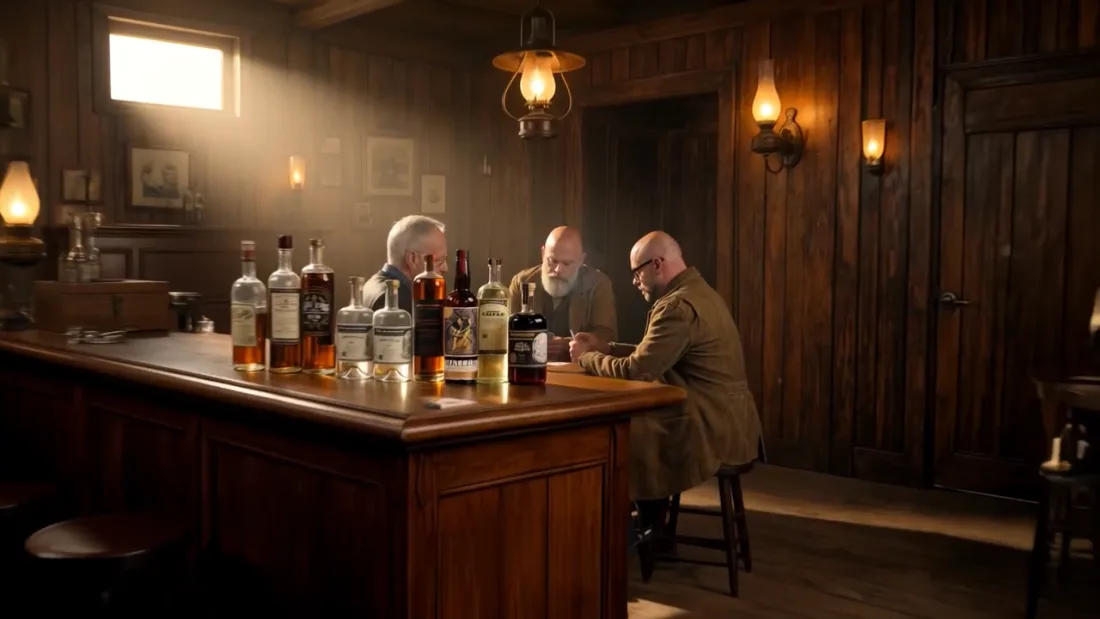
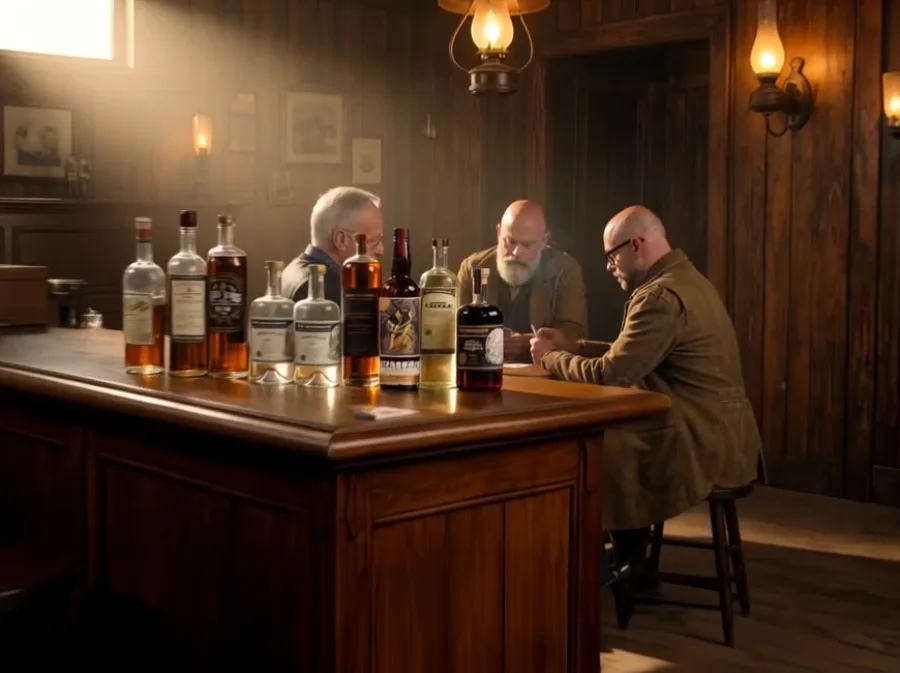
Centre the whole group in the mobile hero
The still was full-bleed behind a 375x698 portrait stage, so cover showed
only ~40% of the frame's width and cut the group off at the left. No
object-position could fix it: the bottles (x 265-645) and the three men
(x 435-890) span 625 of the frame's 1280px, which cannot fit a 375-wide
crop of a 698-tall box at any offset.

So the image is now a band rather than a background. It is cut from the
park frame around the group (crop 150,70 870x650, centred on x~577) and
rendered at its own aspect across the full width, so nothing is cropped
again at display time and the group sits centred. The wordmark moved
beneath it on the ink, with the photo masked into the ground.

Also moved the still to be the first child of .hero-stage -- in static
flow it was painting after the title, which pushed the wordmark up under
the header -- and added a top scrim so the brand stays readable where it
crosses the lit lantern.

diff --git a/index.html b/index.html
@@ -509,36 +509,52 @@
 
 /* Scoped to the class JS stamps at load, NOT to a width. The JS mode is
    fixed for the session, so a width-based rule would un-hide the <video> on
-   rotation to landscape — and on this path that element has no sources. */
+   rotation to landscape — and on this path that element has no sources.
+
+   The still is a BAND, not a background. Full-bleed in a portrait stage,
+   `cover` showed only ~40% of the frame's width and cut the group in half;
+   the bottles and the three men span 625 of the frame's 1280px and simply
+   cannot coexist in a 375-wide crop of a 698-tall box. So the image keeps
+   its own aspect at full width — nothing is cropped, the group stays
+   centred — and the wordmark sits beneath it on the ink. */
 html.is-small .hero{ height:auto; }
-html.is-small .hero-stage{ position:relative; height:86svh; min-height:460px; }
+html.is-small .hero-stage{
+  position:relative; height:auto; min-height:0; display:block;
+  padding-bottom:clamp(34px,8vw,58px);
+}
 html.is-small #hv,
 html.is-small .hero-door,
 html.is-small .hero-hint,
 html.is-small .hero-out,
 html.is-small .hero-rule,
-html.is-small .hero-poster{ display:none !important; }
+html.is-small .hero-poster,
+html.is-small .hero-grade,
+html.is-small .hero-badge,
+html.is-small #plate2{ display:none !important; }
 
 html.is-small .hero-still{
-  display:block; position:absolute; inset:0;
-  width:100%; height:100%; object-fit:cover; object-position:58% 50%;
+  display:block; position:static;
+  width:100%; height:auto; aspect-ratio:900/673; object-fit:cover;
+  /* melt the photo into the ink rather than ending on a hard edge */
+  -webkit-mask-image:linear-gradient(180deg,#000 74%,rgba(0,0,0,0) 100%);
+          mask-image:linear-gradient(180deg,#000 74%,rgba(0,0,0,0) 100%);
 }
-/* the film's grade was driven by JS; the still needs its own */
-html.is-small .hero-grade{
-  background:linear-gradient(180deg, rgba(17,12,7,.82) 0%, rgba(17,12,7,.20) 34%,
-                                     rgba(17,12,7,.30) 62%, rgba(17,12,7,.94) 100%);
-  opacity:1 !important;
+
+/* The header floats over the band. Without this the brand sits on top of a
+   lit lantern and stops being readable. */
+html.is-small .hero-stage::before{
+  content:""; position:absolute; top:0; left:0; right:0; height:120px;
+  background:linear-gradient(180deg, rgba(17,12,7,.92) 0%, rgba(17,12,7,.55) 45%, rgba(17,12,7,0) 100%);
+  z-index:2; pointer-events:none;
 }
-/* both plates are JS-positioned for the film; show the first, statically */
-html.is-small #plate2{ display:none !important; }
+
 html.is-small #plate1{
   opacity:1 !important; transform:none !important;
-  position:absolute; inset:auto 0 0 0;
-  padding:0 var(--gut) clamp(42px,9vw,74px); display:block;
+  position:static; display:block;
+  padding:clamp(18px,4vw,26px) var(--gut) 0; margin-top:-9%;
 }
 html.is-small #plate1 .inner{ transform:none !important; text-align:left; }
-html.is-small #plate1 .mark{ font-size:clamp(40px,13.5vw,66px); }
-html.is-small .hero-badge{ display:none; }
+html.is-small #plate1 .mark{ font-size:clamp(40px,13.2vw,64px); }
 
 /* ---- back bar: tap grid for small screens ---------------------- */
 .bb-grid{ display:none; }
@@ -738,6 +754,11 @@ html.is-small .hero-badge{ display:none; }
 <section class="hero" id="hero">
   <div class="hero-stage" id="stage">
     <div class="hero-poster" aria-hidden="true"></div>
+    <!-- Small screens get the room instead of the walk-in: the film's scroll
+         choreography needs height and a pointer, and 1.6 MB of video is a poor
+         trade on a phone. This is the same park frame the film settles on. -->
+    <img class="hero-still" src="assets/img/hero-interior.webp" width="900" height="673"
+         alt="The bar at St. George Spirits: ten bottles along the counter, Jörg, Lance and Dave over a hand of cards." decoding="async">
     <!-- data-park="<seconds>" freezes the film on that moment and holds it as
          the resting image; omit it to hold the final frame instead.
          4.92s lands on frame 117: the first frame fully clear of the batwing
@@ -785,10 +806,7 @@ html.is-small .hero-badge{ display:none; }
       Gin · Vodka · Whiskey · Brandy · Absinthe
     </div>
 
-    <!-- Small screens get the room instead of the walk-in: the film's scroll
-         choreography needs height and a pointer, and 1.6 MB of video is a poor
-         trade on a phone. This is the same park frame the film settles on. -->
-    <img class="hero-still" src="assets/img/hero-interior.webp" alt="" aria-hidden="true" decoding="async">
+
 
     <div class="hero-out" id="heroOut" aria-hidden="true"></div>
     <div class="hero-rule"><i id="hrule"></i></div>
